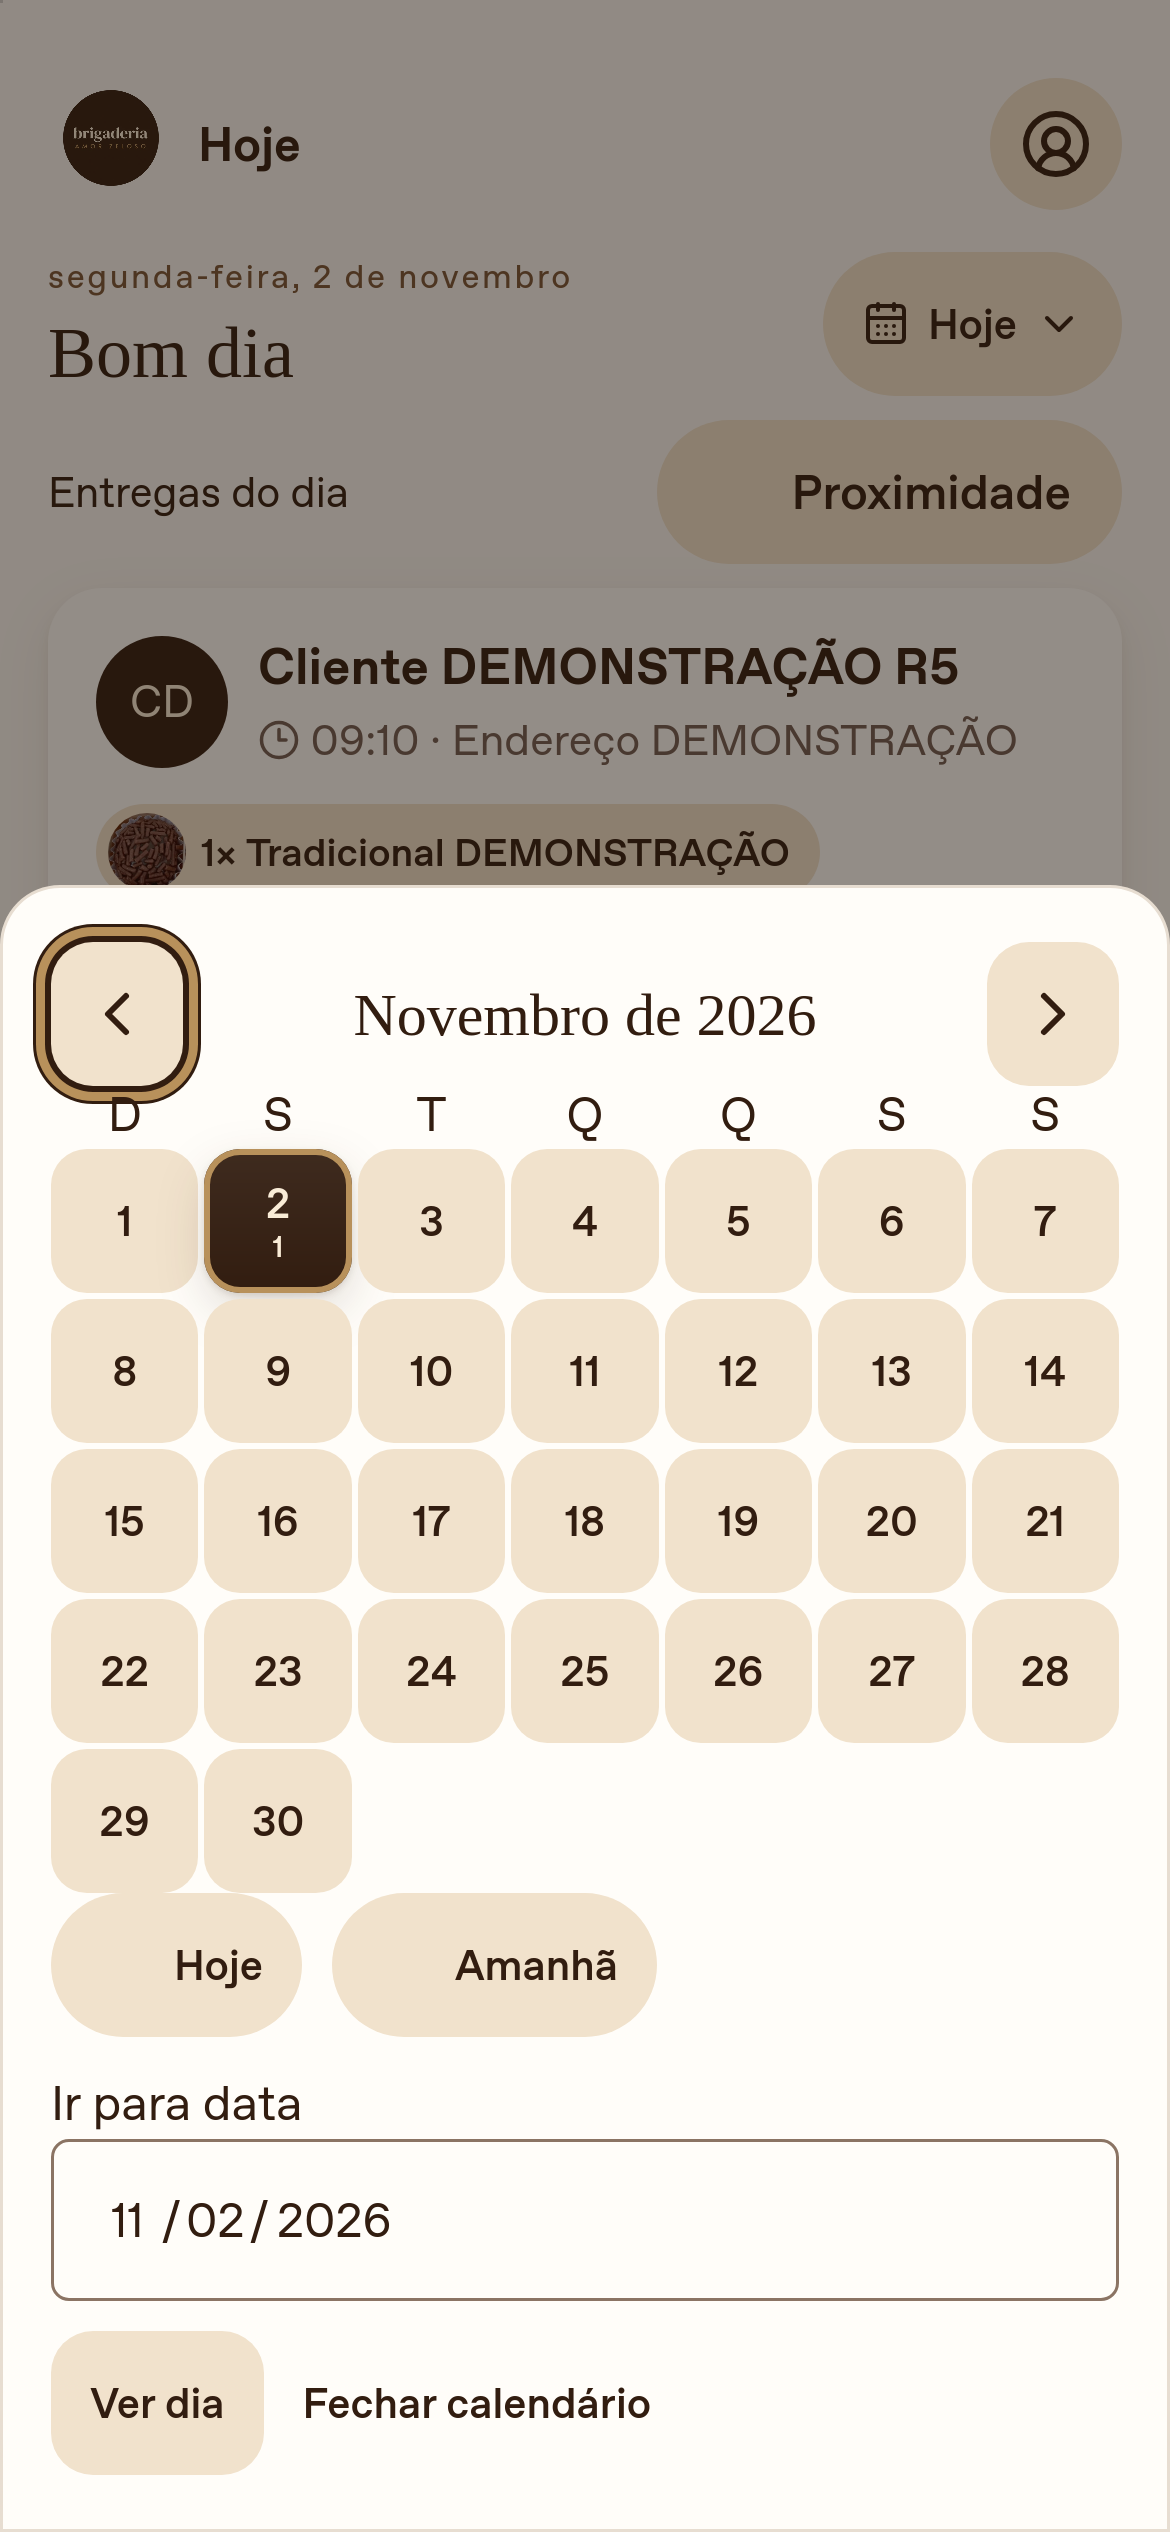
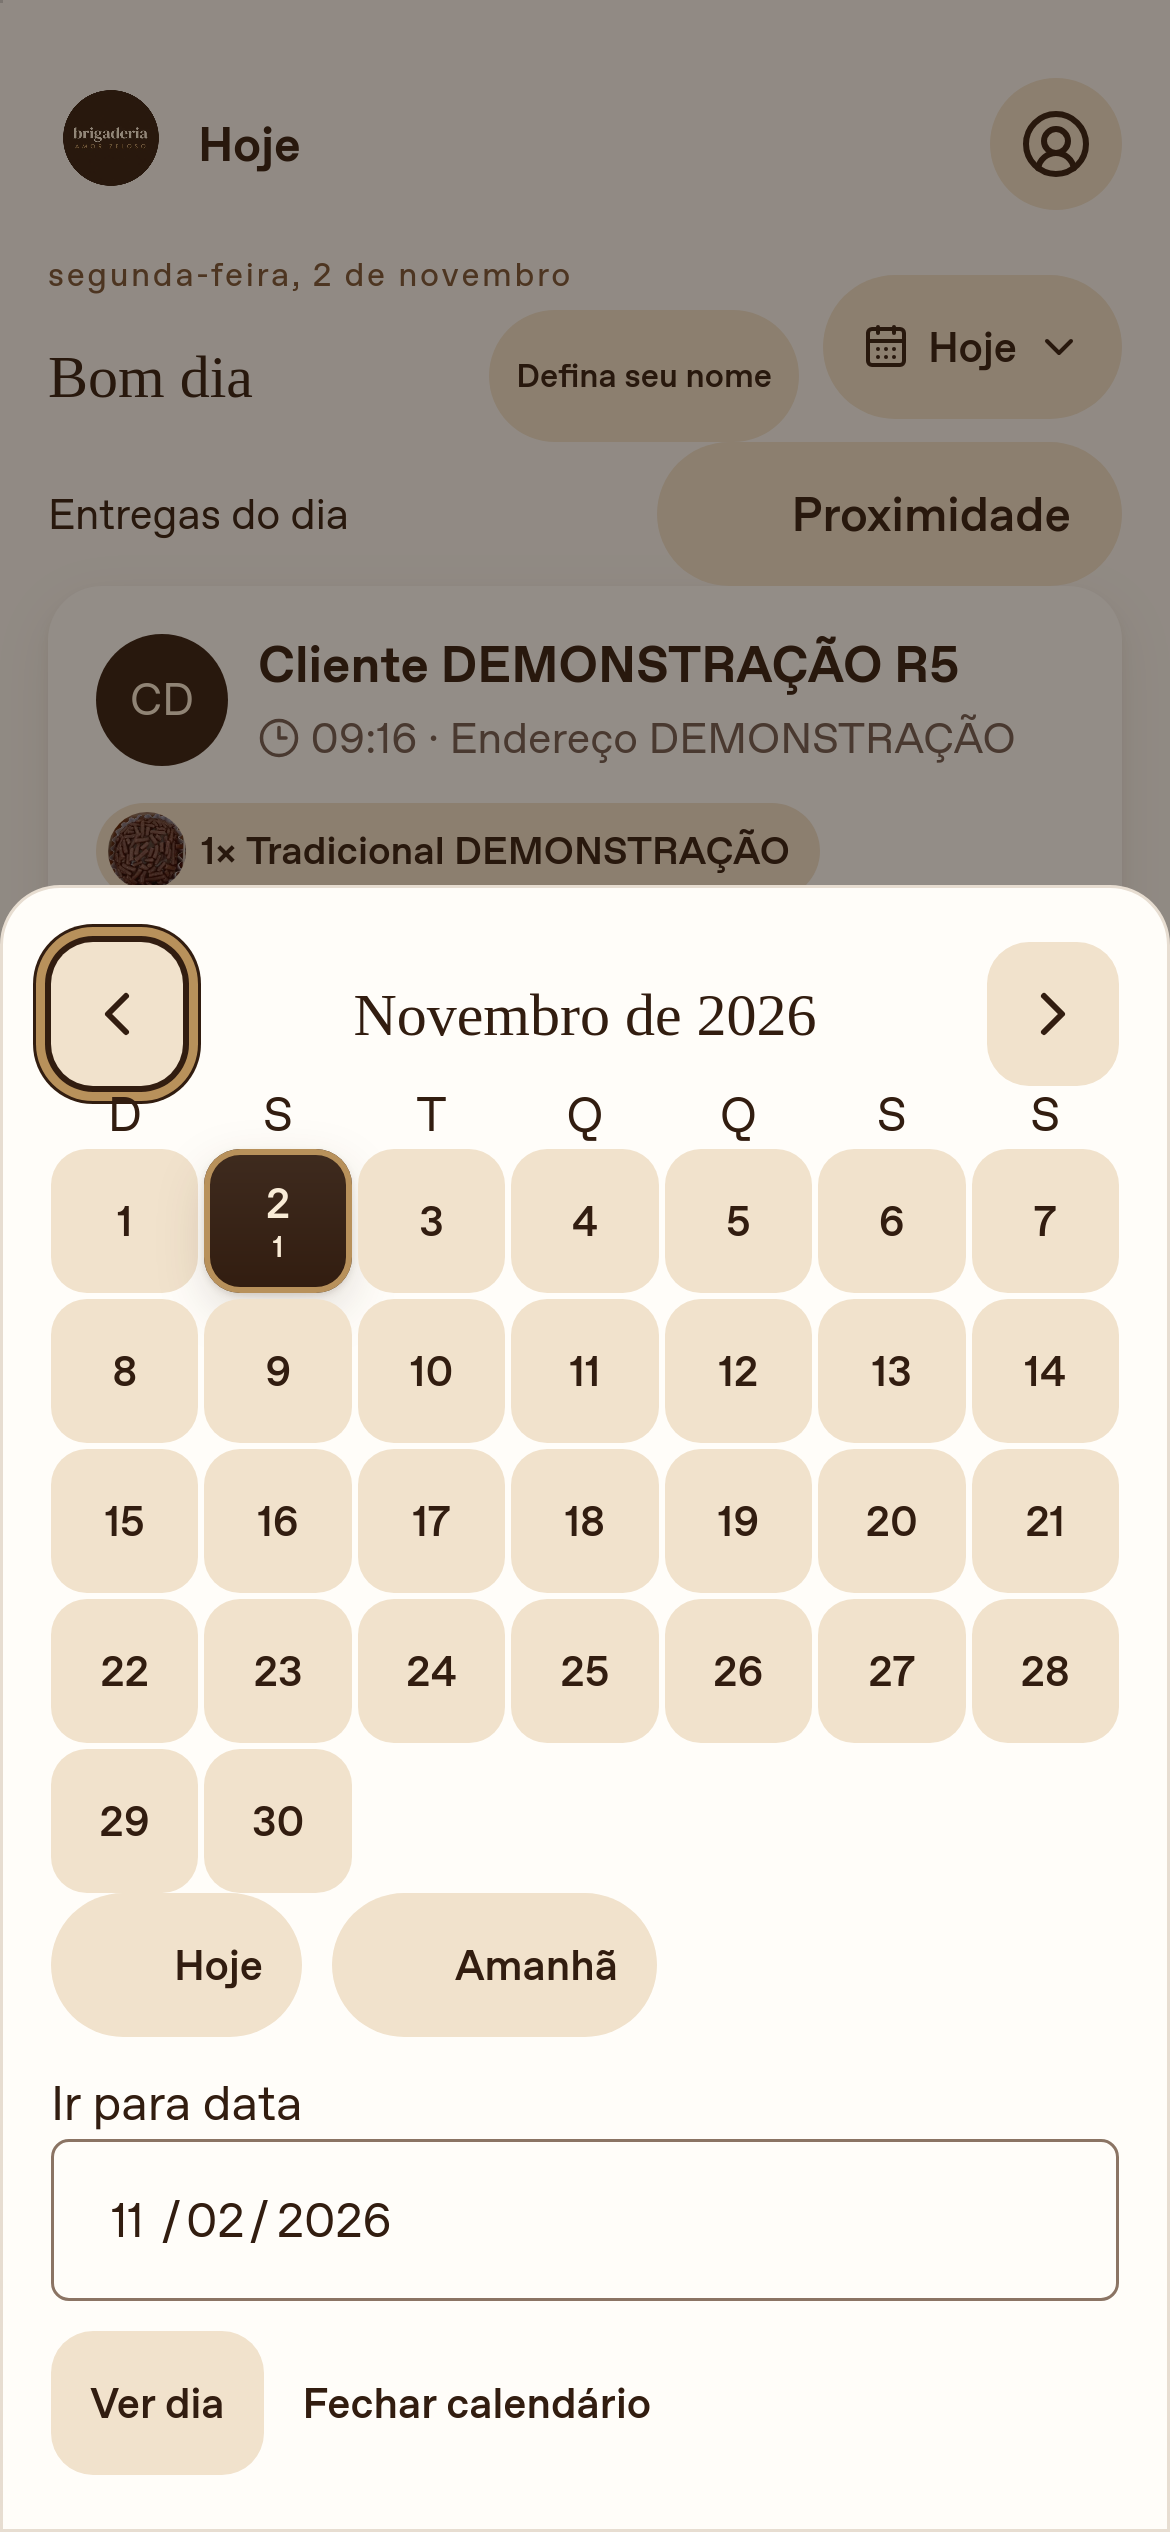
feat: prompt for a display name without blocking Today (R9-6)

diff --git a/tests/e2e/review-r9.spec.js b/tests/e2e/review-r9.spec.js
@@ -81,6 +81,27 @@ test('R9 calendário sem zeros e cabeçalho alinhado', async ({
     await menu
       .getByRole('button', { name: 'Fechar menu', exact: true })
       .click();
+    await expect(
+      p.getByRole('link', { name: 'Defina seu nome', exact: true }),
+    ).toBeVisible();
+    await capture(p, 'defina-seu-nome', info);
+    await p.getByRole('link', { name: 'Defina seu nome', exact: true }).click();
+    await p
+      .getByLabel('Nome de exibição', { exact: true })
+      .fill('Equipe DEMONSTRAÇÃO R9');
+    await p
+      .getByRole('button', { name: 'Salvar nome de exibição', exact: true })
+      .click();
+    await expect(
+      p.getByText('Nome atualizado.', { exact: true }),
+    ).toBeVisible();
+    await p.goto(t.url + '/gestao');
+    await expect(p.locator('.today-greeting h2')).toContainText(
+      'Equipe DEMONSTRAÇÃO R9',
+    );
+    await expect(
+      p.getByRole('link', { name: 'Defina seu nome', exact: true }),
+    ).toHaveCount(0);
     const before = p.url();
     await p.getByRole('button', { name: 'Novo lembrete', exact: true }).click();
     const reminder = p.getByRole('dialog', {
@@ -112,6 +133,15 @@ test('R9 calendário sem zeros e cabeçalho alinhado', async ({
         exact: true,
       }),
     ).toHaveCount(0);
+    const reminderHeader = p.locator('.today-reminders > .section-heading'),
+      labelBox = await reminderHeader.locator('h3').boundingBox(),
+      buttonBox = await reminderHeader.getByRole('button').boundingBox();
+    expect(buttonBox.x).toBeGreaterThan(labelBox.x + labelBox.width);
+    expect(
+      Math.abs(
+        labelBox.y + labelBox.height / 2 - buttonBox.y - buttonBox.height / 2,
+      ),
+    ).toBeLessThan(1);
     await capture(p, 'lembretes-hoje', info);
   } finally {
     await c.close();

diff --git a/src/features/operations/Today.tsx b/src/features/operations/Today.tsx
@@ -191,19 +191,34 @@ export function Today({
               month: 'long',
             }).format(new Date(day + 'T12:00Z'))}
           </p>
-          <h2>
-            {day === localDay()
-              ? greeting(now) +
-                (field?.data?.staff.find((s) => s.id === field.data!.user_id)
-                  ?.version
-                  ? ', ' +
-                    field.data.staff.find((s) => s.id === field.data!.user_id)!
-                      .display_name
-                  : '')
-              : role === 'owner'
-                ? 'Planejamento do dia'
-                : 'Entregas do dia'}
-          </h2>
+          <div className="today-identity">
+            <h2>
+              {day === localDay()
+                ? greeting(now) +
+                  (field?.data?.staff.find((s) => s.id === field.data!.user_id)
+                    ?.version
+                    ? ', ' +
+                      field.data.staff.find(
+                        (s) => s.id === field.data!.user_id,
+                      )!.display_name
+                    : '')
+                : role === 'owner'
+                  ? 'Planejamento do dia'
+                  : 'Entregas do dia'}
+            </h2>
+            {day === localDay() &&
+              field?.data &&
+              !field.data.staff.find((s) => s.id === field.data!.user_id)
+                ?.version && (
+                <Button
+                  to="/gestao/preferencias"
+                  variant="tonal"
+                  className="name-tip"
+                >
+                  Defina seu nome
+                </Button>
+              )}
+          </div>
         </div>
         <DayCalendar day={day} onSelect={setDay} />
       </div>

diff --git a/src/styles.css b/src/styles.css
@@ -2170,3 +2170,30 @@ details[open] > .disclosure-summary > .disclosure-chevron {
 .profile-menu .profile-menu-item .az-button-label {
   text-align: left;
 }
+.today-identity {
+  display: flex;
+  align-items: center;
+  gap: 6px;
+}
+.today-identity h2 {
+  flex: 1;
+  min-width: 0;
+}
+.today-greeting .name-tip.az-button {
+  min-height: 44px;
+  font-size: 11px;
+  padding: 0 8px;
+  border-radius: 999px;
+  flex-shrink: 0;
+}
+.today-greeting:has(.name-tip) h2 {
+  font-size: 20px;
+}
+.today-page:has(.name-tip) .today-greeting,
+.today-page:has(.name-tip) .deliveries-heading {
+  margin-bottom: 0;
+}
+.today-reminders > .section-heading {
+  flex-direction: row;
+  margin-bottom: 8px;
+}

diff --git a/docs/colaboracao/CODEX_PARA_CLAUDE.md b/docs/colaboracao/CODEX_PARA_CLAUDE.md
@@ -119,6 +119,8 @@ Limitação: validação em navegador simulado, aparelho físico pendente.
 
 ## Histórico
 
+- **2026-11-02 — R9-6:** Saudação sem nome cadastrado mostra chip Defina seu nome para Preferências, sem bloquear operação; desaparece após salvar. Guia de ativação atualizado. Espaço do Hoje preservado (limite 200 px), chip com alvo de 44 px e sem sugerir nomes fictícios. Inspeção visual corrigiu também a direção da linha do quadro Lembretes para h3/botão lado a lado. Build/tipagem/lint e nove E2E aprovados; dois WebKit repetidos com medida de alinhamento passaram. R9 concluída; próximo R6-1.
+
 - **2026-11-02 — R9-5:** Menu de perfil com linhas de 52 px, ícone/texto e estilo fantasma uniforme; Fechar no cabeçalho e Sair por último, em perigo discreto. Logout, foco e passeio preservados. Build/tipagem/lint e 12 E2E de perfil/gestão/logout/operação aprovados; captura do menu. Próximo R9-6.
 
 - **2026-11-02 — R9-4:** Hoje administrativo: KPIs (inclui corridas líquidas na semana atual) → produção com fotos/barras/caixas/unidades → fila de revisão → entregas → lembretes. Fila até 50 pendências de qualquer data, com limite explícito; confirmação em lotes de três, chaves por pedido/versão e resultados individuais. Nenhum pedido é selecionado automaticamente. Fotos e pendências hidratadas em lote; produção completa preservada acima de 200 cartões. Build/tipagem/lint, 14 integrações operacionais e nove E2E de ordem/isolamento/confirmação parcial/operação aprovados. Captura administrativa. Próximo R9-5.
@@ -256,6 +258,6 @@ Revisão 52ec55f integrada por fast-forward. Plano antes do código: DayCalendar
 | R9-3        | Entregue; evidências/limites no histórico. |
 | R9-4        | Entregue; evidências/limites no histórico. |
 | R9-5        | Entregue; evidências/limites no histórico. |
-| R9-6        | Pendente                                   |
+| R9-6        | Entregue; evidências/limites no histórico. |
 | R6 restante | Pendente após R9; R6-3/6 já entregues      |
 | R7          | Pendente após R6                           |

diff --git a/docs/ATIVACAO.md b/docs/ATIVACAO.md
@@ -87,3 +87,5 @@ Depois, em **Actions → Homologação D1 (manual) → Run workflow**, escolher 
 3. Após resultado verde e contagens conferidas, seguir os passos 4–6 acima. O GitHub não recebe o backup: não há upload de SQL/artefato pelo workflow. Os logs mostram apenas metadados e contagens.
 
 Sem secret ou ambiente configurados, o workflow encerra com orientação; não use outro banco para “testar se funciona”. A criação do ambiente, secret, aprovação e qualquer operação remota ficam a cargo do administrador. Não foram realizadas nesta rodada.
+
+Após o primeiro login de cada pessoa, tocar em **Defina seu nome** no Hoje (ou perfil → Nome de exibição e preferências), informar o nome usado pela equipe e salvar. Esperado: saudação com o nome, iniciais no avatar e chip oculto. Se não salvar, verificar a mensagem e a conexão; a operação continua disponível sem nome. Não inserir um nome de demonstração em conta real.
